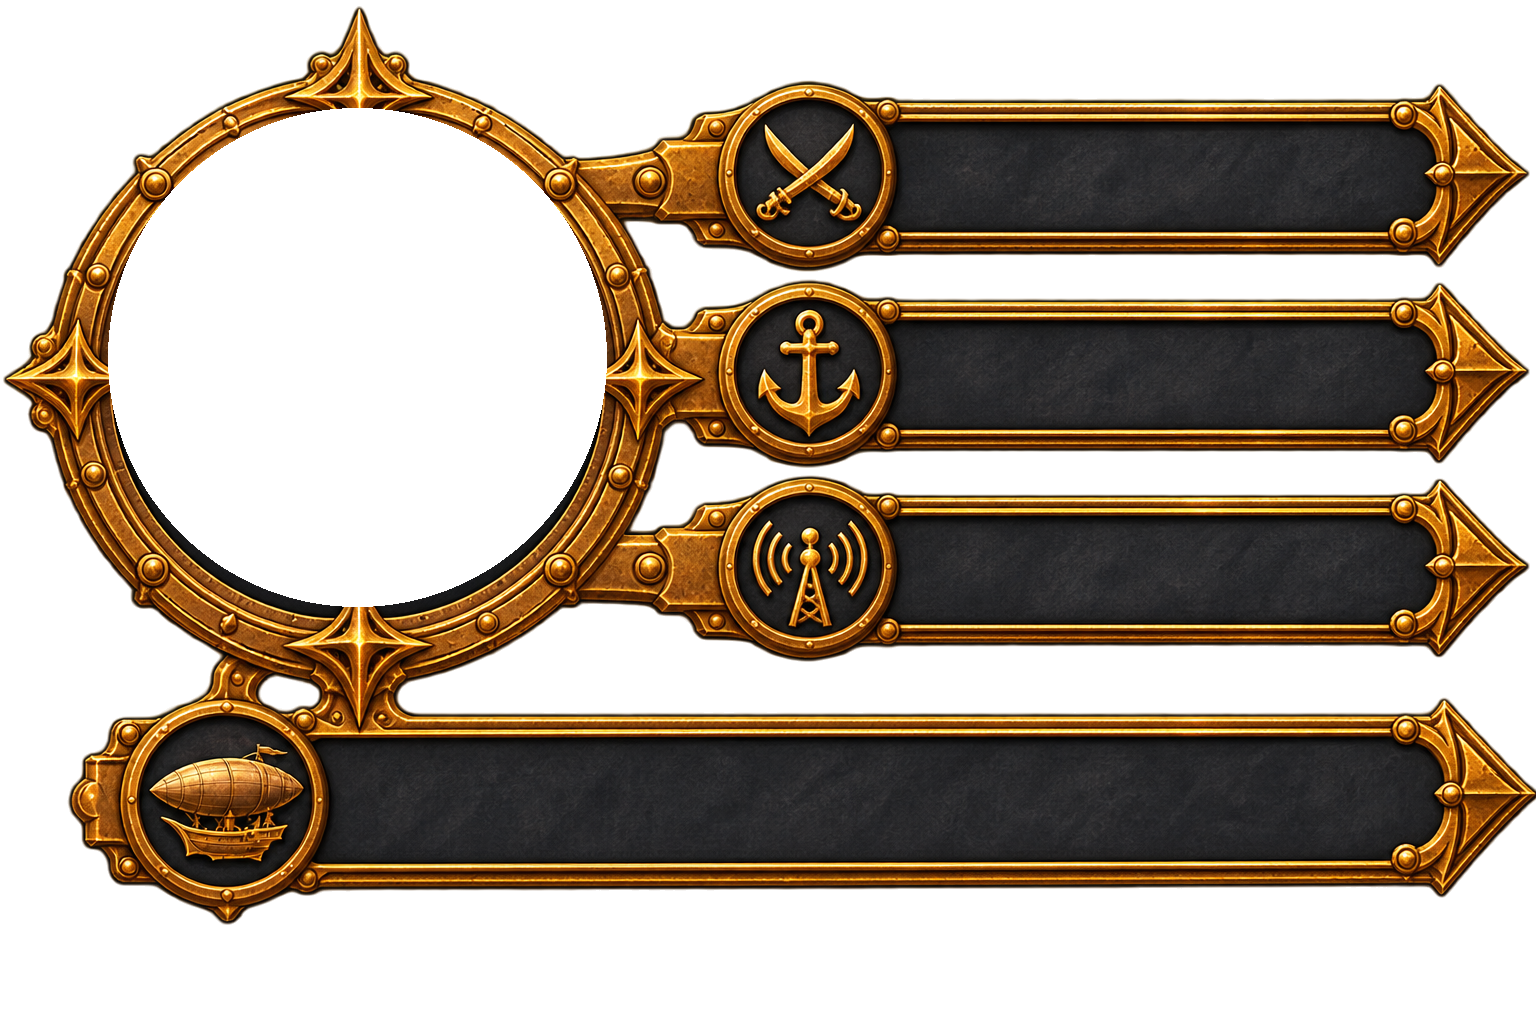
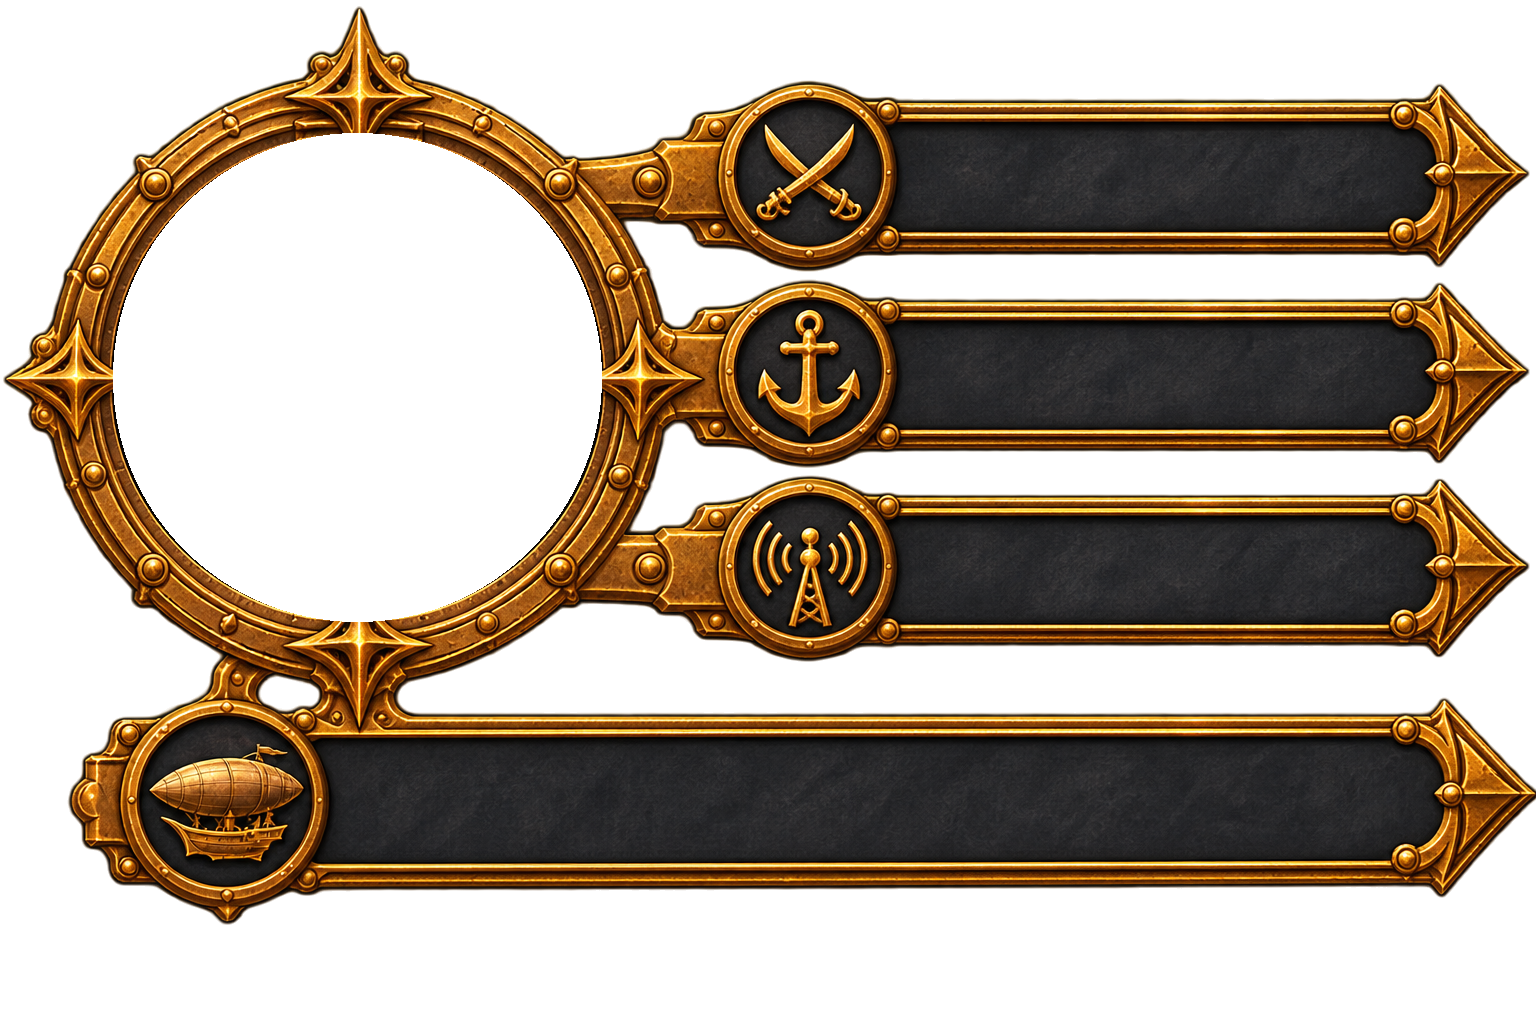
Радар по центру обода, овал ремонта перед причалом, без холостых кораблей, кольцо союзников под корпусом
Claude-Session: https://claude.ai/code/session_01JqUpyrN7v4Vg7Bq8j6sfrd

diff --git a/Assets/_Project/Scripts/World/SkyFortress.cs b/Assets/_Project/Scripts/World/SkyFortress.cs
@@ -176,7 +176,7 @@ namespace SkyTide
             if (zoneMist != null) zoneMist.Tick(alarm, centre, fx.deckTop + 1f);
             // Точка ремонта — кольцо по зоне ремонта у причала вместо огонька-«звезды» (владелец 15.11).
             fx.ClearBeacon();
-            if (berthRing == null && !berthRingTried && Application.isPlaying) { berthRingTried = true; berthRing = BerthRing.Create(RepairCentre, RepairRadius); }
+            if (berthRing == null && !berthRingTried && Application.isPlaying) { berthRingTried = true; berthRing = BerthRing.Create(RepairCentre, RepairAlong, RepairOut, RepairRotation, -6f, 9f); }
             if (berthRing != null) berthRing.Tick(RepairCentre, !alarm, PlayerDocked, time);
         }
 
@@ -255,8 +255,17 @@ namespace SkyTide
         public Vector3 BerthWorld { get { return model != null ? model.TransformPoint(berthLocal) : transform.position; } }
         /// <summary>Зона ремонта — круг перед причалом (на воздухе, а не на пирсе): центр в 35 м наружу от края причала,
         /// туда же встаёт автошвартовка (30 м). Кольцо рисуется ровно по ней (владелец 15.11: кольцо заезжало на причал).</summary>
-        public const float RepairRadius = 42f;
-        public Vector3 RepairCentre { get { Vector3 b = BerthWorld, o = b - Center; o.y = 0f; o = o.sqrMagnitude > 1f ? o.normalized : Vector3.forward; return b + o * 35f; } }
+        // Овал вдоль причала (владелец 16.11: «овальную и больше»): 85 м вдоль кромки, 50 м наружу, центр в 55 м от кромки.
+        public const float RepairAlong = 85f, RepairOut = 50f;
+        Vector3 BerthOut { get { Vector3 o = BerthWorld - Center; o.y = 0f; return o.sqrMagnitude > 1f ? o.normalized : Vector3.forward; } }
+        public Vector3 RepairCentre { get { return BerthWorld + BerthOut * 55f; } }
+        public Quaternion RepairRotation { get { return Quaternion.LookRotation(BerthOut, Vector3.up); } }
+        public bool InRepairZone(Vector3 p)
+        {
+            Vector3 d = p - RepairCentre; d.y = 0f; Vector3 o = BerthOut, x = Vector3.Cross(Vector3.up, o);
+            float a = Vector3.Dot(d, x) / (RepairAlong + 6f), b = Vector3.Dot(d, o) / (RepairOut + 6f);
+            return a * a + b * b < 1f;
+        }
 
         /// <summary>Верх крепости над точкой мира (м) или −∞, если там пусто.</summary>
         public float TopAt(Vector3 world)
@@ -331,7 +340,7 @@ namespace SkyTide
             if (Hostile && Time.time >= nextBell) { nextBell = Time.time + 1.15f; SkySound.Alarm(transform.position); }
             UpdateBeacon(Camera.main, Time.time);
 
-            if (!mooredBuilt) BuildMoored();
+            // Пришвартованные «холостые» корабли убраны (владелец 16.11).
             bool inside = InSafeZone(ship.transform.position);
             if (inside && !PlayerInside) EnteredAt = Time.time;
             PlayerInside = inside;
@@ -341,7 +350,7 @@ namespace SkyTide
 
             // Причал: рядом и на малом ходу — ремонт.
             PlayerDocked = hasBerth && !Hostile && hull.Alive
-                && FlatDist(ship.transform.position, RepairCentre) < RepairRadius + 6f && Mathf.Abs(ship.Speed) < berthMaxSpeed;   // ремонт — внутри кольца
+                && InRepairZone(ship.transform.position) && Mathf.Abs(ship.Speed) < berthMaxSpeed;   // ремонт — внутри овала
             if (PlayerDocked)
             {
                 hull.Repair(repairPerSecond * dt);
@@ -352,7 +361,7 @@ namespace SkyTide
                 if (Mathf.Abs(ship.throttle) < 0.01f && moorOut.sqrMagnitude > 1f)
                 {
                     moorOut.Normalize();
-                    Vector3 moorSpot = BerthWorld + moorOut * 30f; moorSpot.y = ship.transform.position.y;
+                    Vector3 moorSpot = RepairCentre;   // центр овала ремонта moorSpot.y = ship.transform.position.y;
                     ship.transform.SetPositionAndRotation(Vector3.MoveTowards(ship.transform.position, moorSpot, 6f * dt),
                         Quaternion.RotateTowards(ship.transform.rotation, Quaternion.LookRotation(moorOut, Vector3.up), 14f * dt));
                 }

diff --git a/Assets/_Project/Scripts/World/BerthRing.cs b/Assets/_Project/Scripts/World/BerthRing.cs
@@ -10,21 +10,23 @@ namespace SkyTide
     public class BerthRing : MonoBehaviour
     {
         Material mat; float docked;
-        static readonly Color Idle = new Color(1f, 0.78f, 0.38f, 0.9f), Repair = new Color(0.45f, 1f, 0.6f, 0.95f);
+        Color Idle = new Color(1f, 0.78f, 0.38f, 0.9f), Repair = new Color(0.45f, 1f, 0.6f, 0.95f);
 
-        public static BerthRing Create(Vector3 centre, float radius)
+        public static BerthRing Create(Vector3 centre, float radius) { return Create(centre, radius, radius, Quaternion.identity, -6f, 9f); }
+        /// <summary>Овал: rx — поперёк (по оси X поворота), rz — вдоль Z; low/high — низ и верх светящейся стенки.</summary>
+        public static BerthRing Create(Vector3 centre, float rx, float rz, Quaternion rot, float low, float high)
         {
             Shader sh = Shader.Find("SkyTide/ZoneMist");
             if (sh == null) return null;
             GameObject go = new GameObject("SkyTide.BerthRing");
             BerthRing b = go.AddComponent<BerthRing>();
-            const int N = 96; const float low = -6f, high = 9f;
+            const int N = 96; float radius = (rx + rz) * 0.5f;
             Vector3[] v = new Vector3[(N + 1) * 2]; Vector2[] uv = new Vector2[v.Length]; int[] tri = new int[N * 6];
             float circ = 2f * Mathf.PI * radius;
             for (int i = 0; i <= N; i++)
             {
                 float a = i * Mathf.PI * 2f / N;
-                Vector3 p = new Vector3(Mathf.Cos(a) * radius, 0f, Mathf.Sin(a) * radius);
+                Vector3 p = new Vector3(Mathf.Cos(a) * rx, 0f, Mathf.Sin(a) * rz);
                 v[i * 2] = p + Vector3.up * low; v[i * 2 + 1] = p + Vector3.up * high;
                 float u = i / (float)N * circ / 40f;
                 uv[i * 2] = new Vector2(u, 0f); uv[i * 2 + 1] = new Vector2(u, 1f);
@@ -34,12 +36,21 @@ namespace SkyTide
             m.vertices = v; m.uv = uv; m.triangles = tri; m.RecalculateBounds();
             go.AddComponent<MeshFilter>().sharedMesh = m;
             MeshRenderer r = go.AddComponent<MeshRenderer>();
-            b.mat = new Material(sh); b.mat.color = Idle;
+            b.mat = new Material(sh); b.mat.color = b.Idle;
             r.sharedMaterial = b.mat; r.shadowCastingMode = UnityEngine.Rendering.ShadowCastingMode.Off; r.receiveShadows = false;
-            go.transform.position = centre;
+            go.transform.SetPositionAndRotation(centre, rot);
             return b;
         }
 
+        /// <summary>Подсветка союзника: зелёное кольцо под корпусом, мягко дышит; под огнём — красное.</summary>
+        public void TickAlly(Vector3 centre, Quaternion rot, bool visible, bool underAttack, float time)
+        {
+            if (gameObject.activeSelf != visible) gameObject.SetActive(visible);
+            if (!visible || mat == null) return;
+            Color c = underAttack && Mathf.Repeat(time * 2.5f, 1f) < 0.5f ? new Color(1f, 0.4f, 0.32f, 0.9f) : new Color(0.4f, 1f, 0.5f, 0.85f);
+            c.a *= 0.8f + 0.2f * Mathf.Sin(time * 2f);
+            mat.color = c; transform.SetPositionAndRotation(centre, rot);
+        }
         public void Tick(Vector3 centre, bool visible, bool repairing, float time)
         {
             if (gameObject.activeSelf != visible) gameObject.SetActive(visible);

diff --git a/Assets/_Project/Scripts/Ship/AllyShip.cs b/Assets/_Project/Scripts/Ship/AllyShip.cs
@@ -102,6 +102,7 @@ namespace SkyTide
             if (!All.Contains(this)) All.Add(this);
         }
         void OnEnable() { if (!All.Contains(this)) All.Add(this); }
+        void OnDestroy() { if (glow != null) Destroy(glow.gameObject); }
         void OnDisable() { All.Remove(this); }
 
         // ---------- попадания ----------
@@ -175,10 +176,18 @@ namespace SkyTide
             ctrl.enabled = true;
         }
 
+        BerthRing glow; bool glowTried;
         void Update()
         {
             long pt = PerfTimers.Start();
             Tick(Time.deltaTime);
+            // Подсветка своих: зелёное светящееся кольцо под корпусом, как у зоны ремонта (владелец 16.11).
+            if (!glowTried && Application.isPlaying) { glowTried = true; float len = Mathf.Max(20f, box.size.z * transform.lossyScale.z); glow = BerthRing.Create(transform.position, len * 0.42f, len * 0.62f, transform.rotation, -3f, 5f); }
+            if (glow != null)
+            {
+                Vector3 at = Center; at.y = Center.y - box.extents.y * transform.lossyScale.y * 0.9f;
+                glow.TickAlly(at, Quaternion.Euler(0f, transform.eulerAngles.y, 0f), Alive && gameObject.activeInHierarchy, UnderAttack, Time.time);
+            }
             PerfTimers.Stop("Союзники", pt);
         }
 

diff --git a/Assets/_Project/Scripts/Input/HudLayout.cs b/Assets/_Project/Scripts/Input/HudLayout.cs
@@ -50,7 +50,7 @@ namespace SkyTide
             float mH = Mathf.Max(u * 0.3f, Mathf.Min(u * 0.41f, mBottom - mTop)), k = mH / 1024f;   // меньше: загораживал обзор (владелец 16.11)
             l.radarModule = new Rect(edgeX - 4f * k, mTop, 1536f * k, mH);   // и левее — к краю экрана
             float mx = l.radarModule.x, my = l.radarModule.y;
-            l.radar = new Rect(mx + (357f - 247f) * k, my + (357f - 247f) * k, 494f * k, 494f * k);   // стекло радара (касание — масштаб)
+            l.radar = new Rect(mx + (357f - 244f) * k, my + (377.5f - 244f) * k, 488f * k, 488f * k);   // круг обода по замеру: центр (357; 377,5), r 244   // стекло радара (касание — масштаб)
             l.tabEnemy = new Rect(mx + 900f * k, my + 119f * k, 505f * k, 112f * k);
             l.tabBerth = new Rect(mx + 900f * k, my + 318f * k, 505f * k, 112f * k);
             l.tabRadar = new Rect(mx + 900f * k, my + 513f * k, 505f * k, 112f * k);

diff --git a/Assets/_Project/Scripts/Input/ShipHud.cs b/Assets/_Project/Scripts/Input/ShipHud.cs
@@ -976,7 +976,6 @@ namespace SkyTide
                     Compass(input,l);
                     if(tModule==null){Panel(l.speed,l.unit);PlateText(l.speed,0f,1f,Cached(3,input.Gear*1000+Mathf.RoundToInt(Mathf.Abs(input.ship.Speed)),v=>TouchControls.GearNames[v/1000]+" · "+(v%1000)+" м/с"),l.unit*0.034f,cream);}   // ступень рукояти и скорость (с модулем радара — во вкладке хода)
                     Telegraph(input,l);
-                    AllyRings(input,l);
                     LockMarker(input,l);
                     Radar(input,l);
                     Hull(l);

diff --git a/Assets/_Project/Scripts/Ship/PlayerAutopilot.cs b/Assets/_Project/Scripts/Ship/PlayerAutopilot.cs
@@ -270,7 +270,7 @@ namespace SkyTide
         {
             Vector3 outDir = fort.BerthWorld - fort.Center; outDir.y = 0f;
             outDir = outDir.sqrMagnitude > 1f ? outDir.normalized : Vector3.forward;
-            Vector3 spot = fort.BerthWorld + outDir * 30f; spot.y = transform.position.y;
+            Vector3 spot = fort.RepairCentre; spot.y = transform.position.y;   // в центр овала ремонта
             Vector3 to = spot - transform.position; to.y = 0f;
             float dist = to.magnitude;
             if (fort.PlayerDocked || dist < fort.berthRadius * 0.6f)
